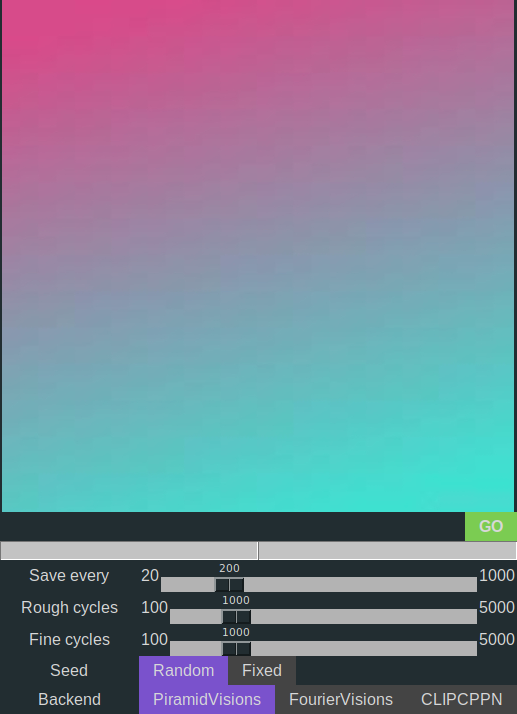
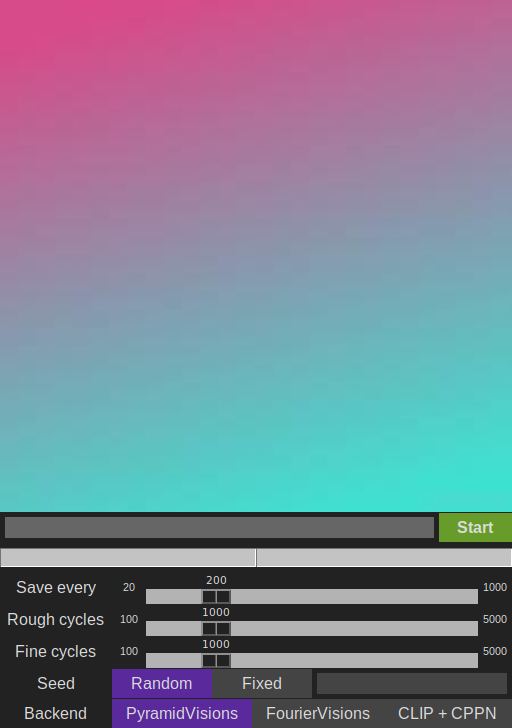
Updated go button in readme

Changed region(s): [[0.0, 0.0, 1.0, 1.0]]

diff --git a/readme.md b/readme.md
@@ -29,16 +29,16 @@ To start, run `python visions-gui.py`. An internet connection is only required w
 The GUI is made up of multiple modules which offer feedback to the user and allow to change a handful of settings.
 #### Image viewer
 The image viewer displays the current progress of the image and is periodically updated during generation. The displayed images are also accessible in the `images` folder.
-#### Progress bar
-The progress bar shows the progress of the two stages from left to right.
 #### Prompt bar
-The prompt bar consists of a text field and a button labeled GO. A prompt is entered into the text field and the image will be generated as soon as the button is pressed.
+The prompt bar consists of a text field and a start / stop toggle button. A prompt is entered into the text field and the image will be generated as soon as the button is pressed. To stop, press the button again.
 The button also serves as the GUI's state:
 |Color |State |
 |-|:-|
-|Green| The model is ready and is waiting to be started |
+|Green| The model is ready and waiting to be started |
 |Yellow| The model is currently generating an image |
 |Red| An error occured |
+#### Progress bar
+The progress bar shows the progress of the two stages from left to right.
 #### Settings panel
 The settings panel contains a few option for generating an image:
 |Setting |Description |
